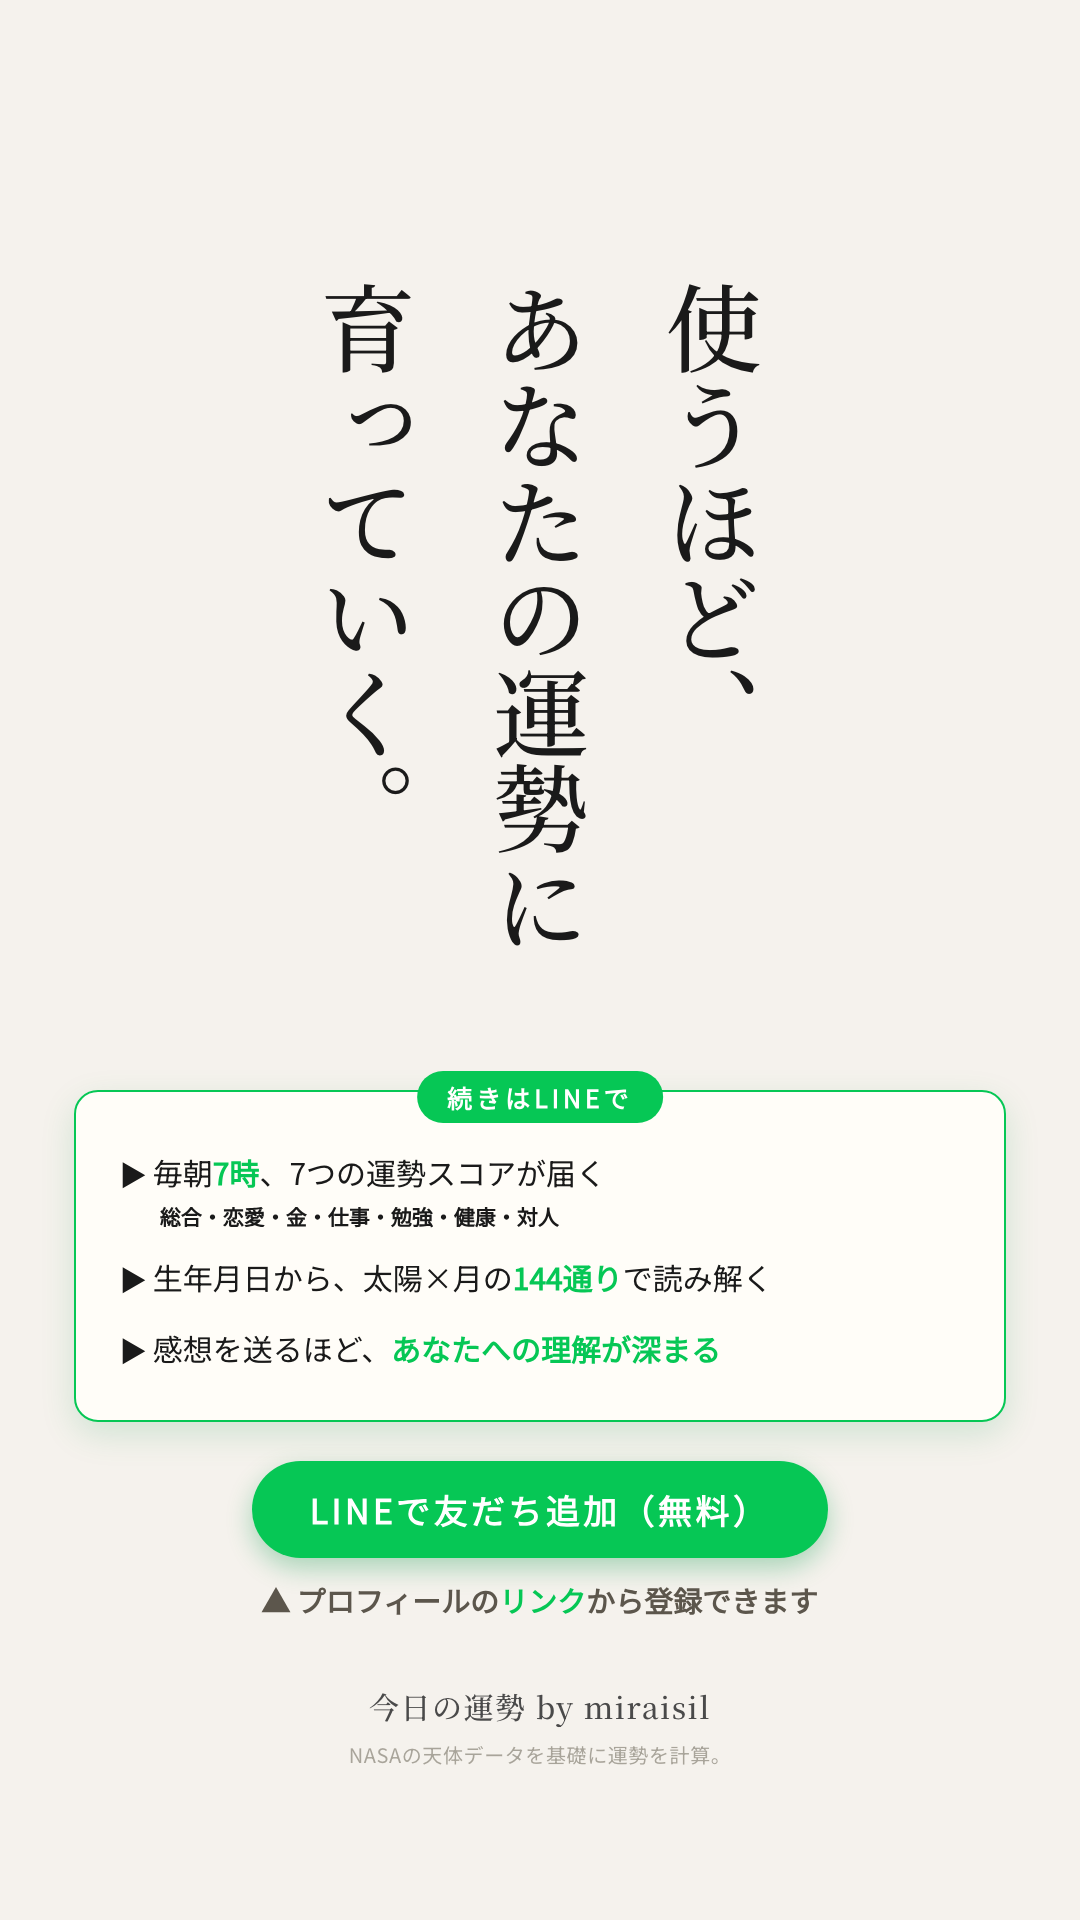
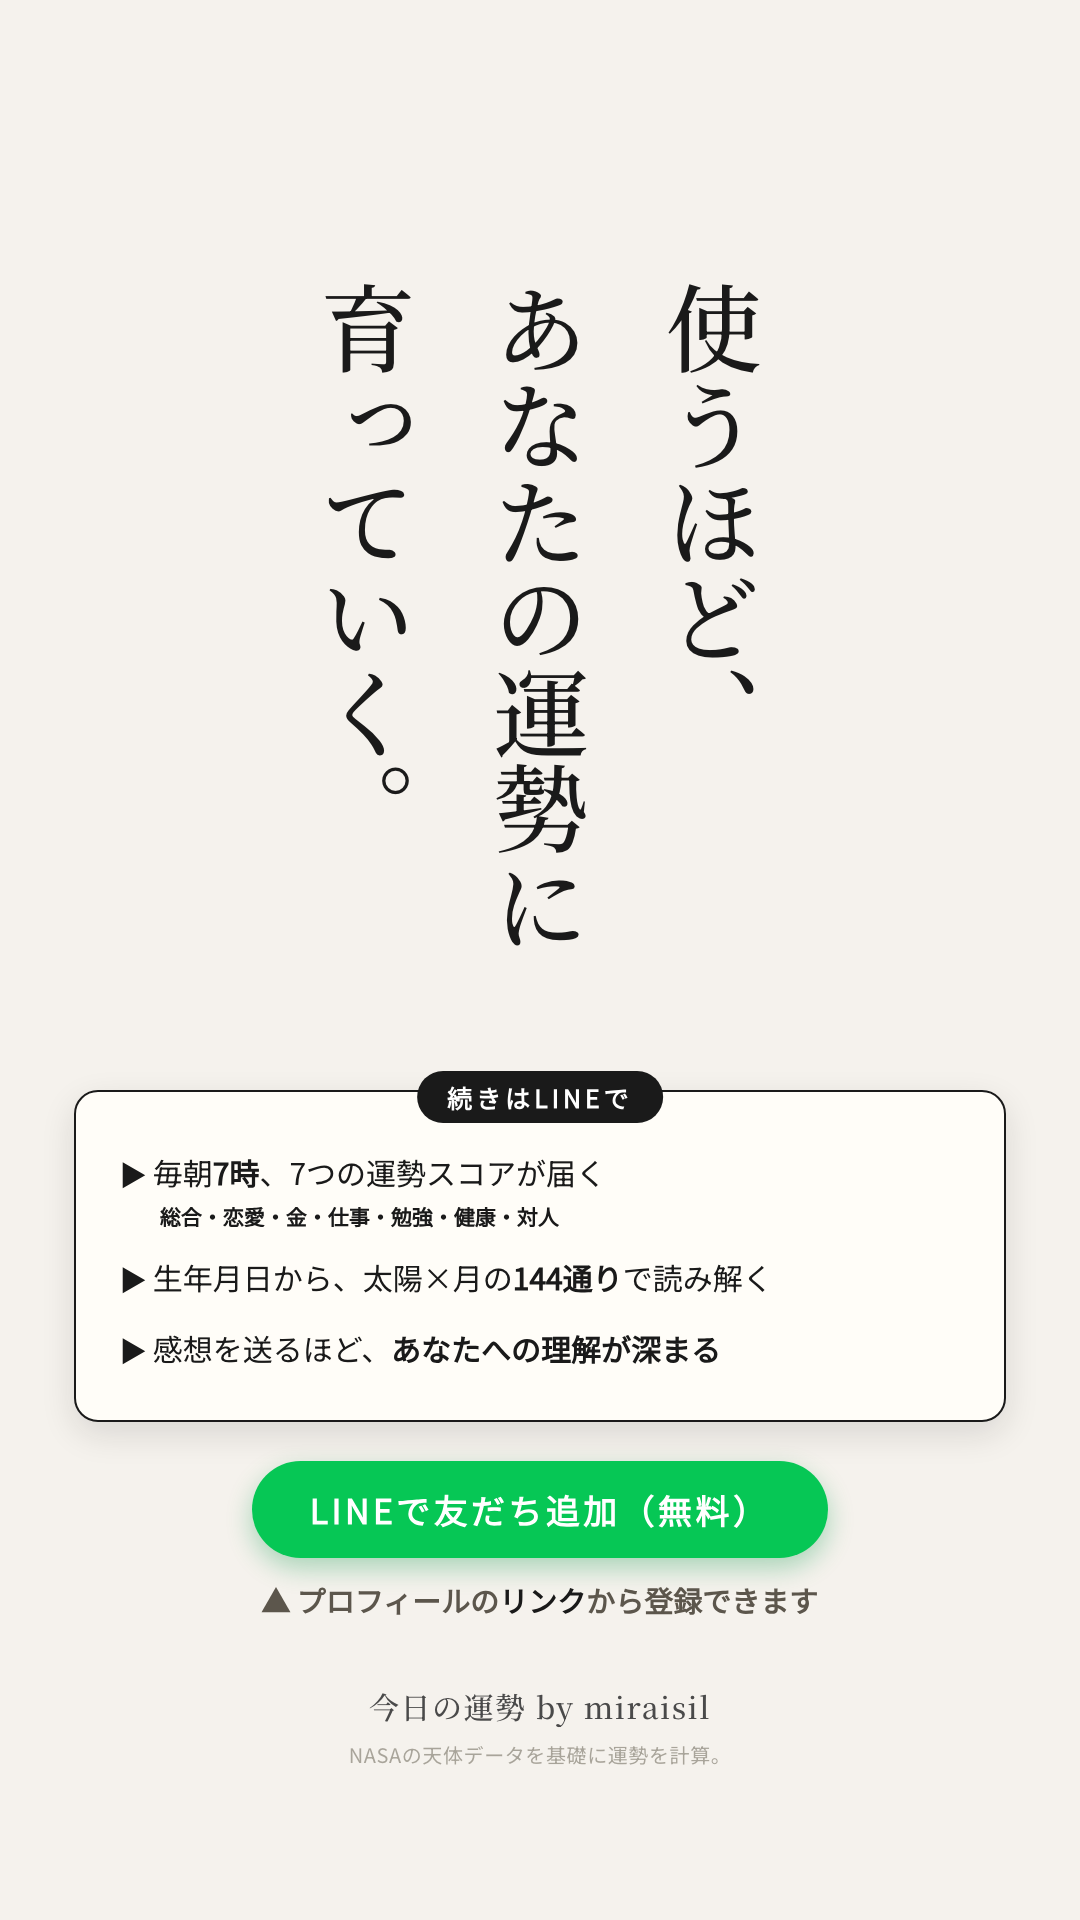
CTA slide: scope green down to just the friend-add button
Pill, card border/shadow, bold list highlights, and the "link" note
all move to ink black (#1a1a1a) matching the serif heading above.
Green now appears in exactly one place.

diff --git a/story-4slide-test/index.html b/story-4slide-test/index.html
@@ -35,19 +35,20 @@
 <body>
 <div class="label">ストーリーズ4枚構成 TEST（CTAスライド3点修正） &middot; Internal Only</div>
 <div class="fixnote">
-<b>【現状確認】CTAスライド 仕上げの微修正2点・未コミット</b><br>
+<b>【現状確認】CTAスライド 緑を友だち追加ボタンだけに絞る・未コミット</b><br>
 dataunsei-automation 側にはまだコミットしていません。デザイン・文言はまだ確定していません。<br>
-まず現状を実描画して確認したところ、ご指摘の2点とも実際に問題が見えたため修正しました:<br>
-1. サブライン「総合・恋愛・金・仕事・勉強・健康・対人」: 色コード自体は前回から
-　<code>#1a1a1a</code>（本文と同じ墨色）でしたが、文字サイズが21pxと小さく太さも標準
-　（font-weight未指定＝継承の500）だったため、周囲の太字と比べて薄く見えていました。
-　<code>font-weight: 700</code> を追加し、はっきり濃く見えるようにしました（色コードは
-　<code>#1a1a1a</code>のまま）。<br>
-2. 「▲プロフィールのリンクから登録できます」の「リンク」: <code>#8a6a2f</code>（金茶系）から
-　<code>#06C755</code>（LINEグリーン、他の緑アクセントと同一コード）に変更。
+緑を友だち追加ボタンの1箇所だけに絞り、それ以外を上半分の明朝と同じ墨色<code>#1a1a1a</code>に統一:<br>
+1. 「続きはLINEで」ピル: 背景 <code>#06C755</code>→<code>#1a1a1a</code>（文字は白のまま維持）<br>
+2. カード枠（border）: <code>#06C755</code>→<code>#1a1a1a</code>の細線に。影の色味も
+　緑系<code>rgba(6,150,70,.15)</code>から墨系<code>rgba(26,26,26,.12)</code>に変更<br>
+3. 箇条書きの強調語（7時／7つの運勢スコア／144通り／あなたへの理解）: <code>#06C755</code>→
+　<code>#1a1a1a</code>の太字に<br>
+4. サブライン: 引き続き<code>#1a1a1a</code>・font-weight:700のまま（変更なし、既に濃い状態）<br>
+5. 「リンク」: <code>#06C755</code>→<code>#1a1a1a</code>に<br>
+6. 友だち追加ボタン: <code>#06C755</code>のまま維持（緑はここだけ）
 </div>
 <div class="row">
-  <figure><img src="cta_uncommitted_preview.png?v=1784219241"><figcaption><b>CTA（現状・未コミット・サブライン強調＋リンク色統一）</b></figcaption></figure>
+  <figure><img src="cta_uncommitted_preview.png?v=1784219817"><figcaption><b>CTA（現状・未コミット・緑はボタンのみ）</b></figcaption></figure>
 </div>
 
 <div class="fixnote">
